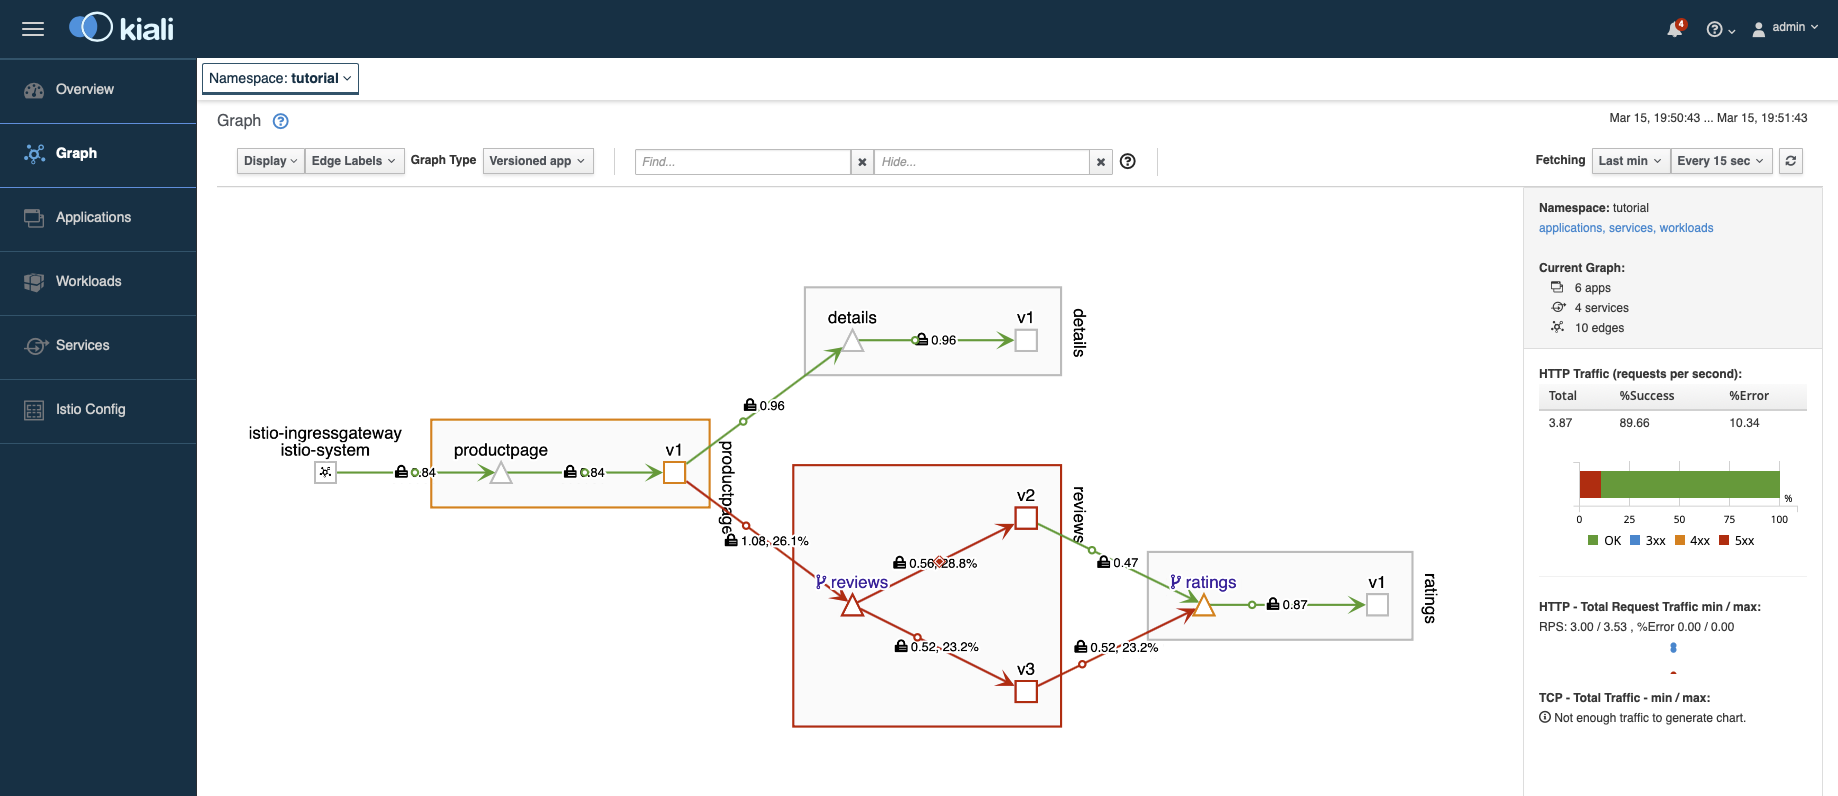
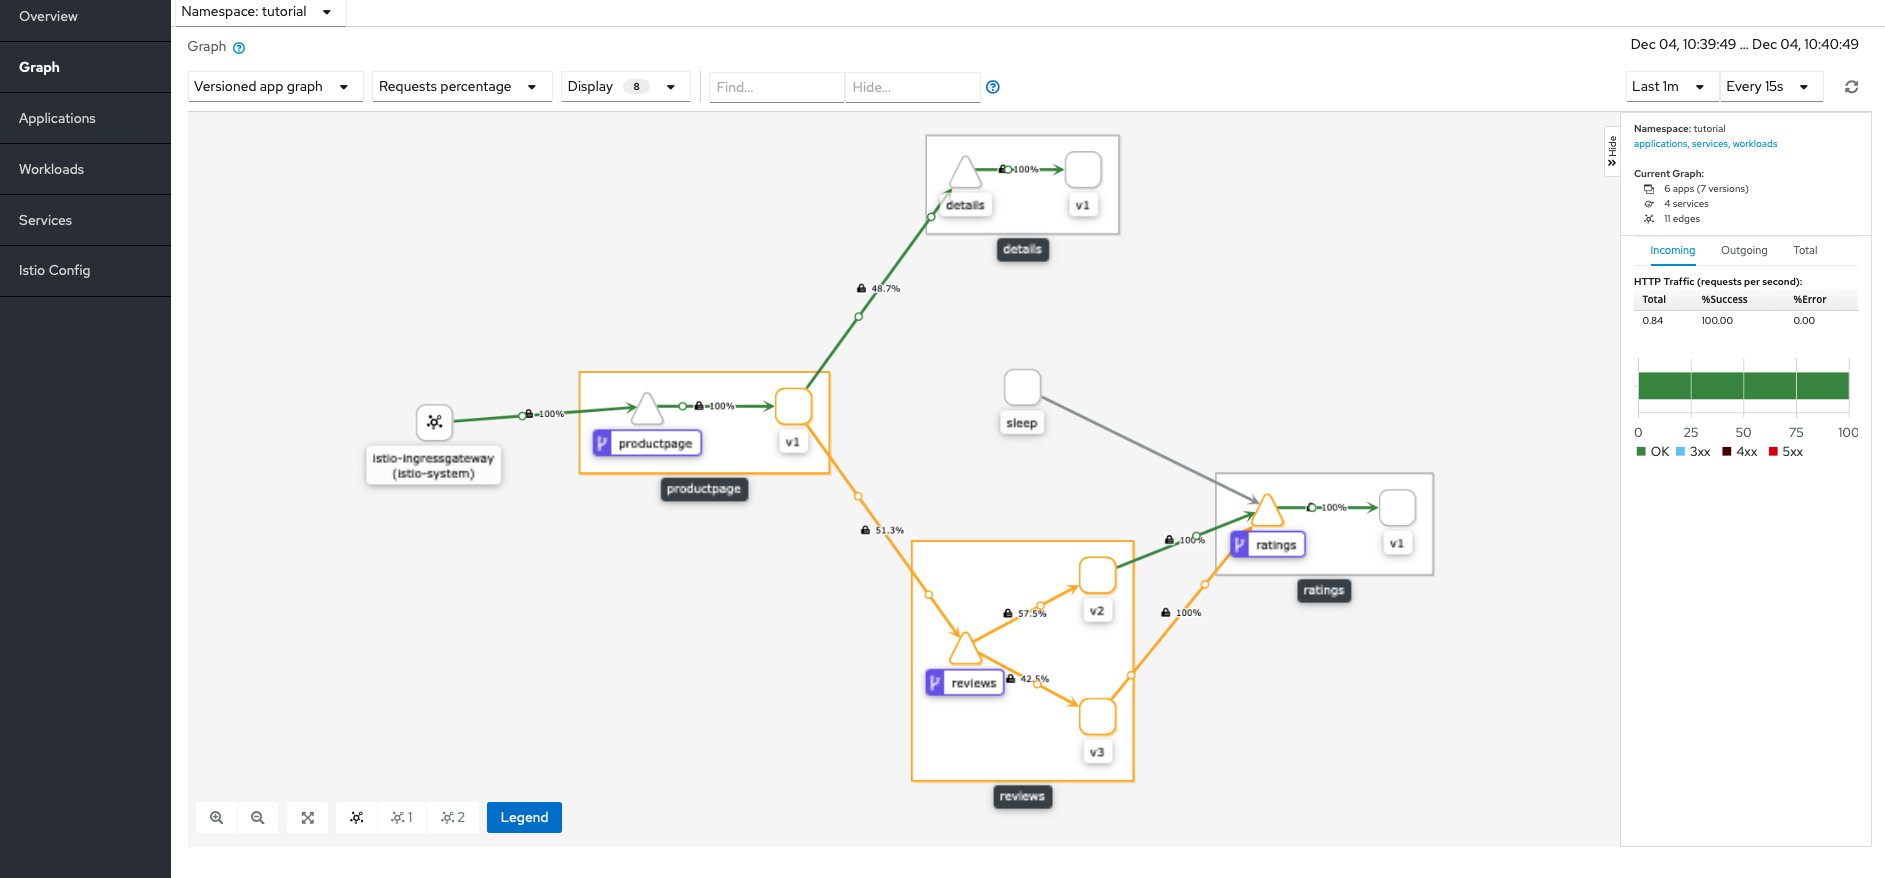
rewrite the fault injection
1. replace Kiali images
2. rewrite the description of Kiali images (the services turned orange and not red, no errors appear on the right tab
3. remove Jaeger since only two spans are shown
4. add final access to the application's webpage to show that the errors disappear, though there is slight delay (injected)

diff --git a/content/en/docs/tutorial/fault-injection-with-istio/index.md b/content/en/docs/tutorial/fault-injection-with-istio/index.md
@@ -51,9 +51,7 @@ microservices react to the faults you injected.
 1.  Check your Kiali console,
     [http://my-kiali.io/kiali/console](http://my-kiali.io/kiali/console), the graph of your namespace.
 
-    Note that the `reviews` microservice became orange and the edges to `ratings` became orange as well. Note the
-    red portion of the stacked bar chart on the right, it designates the proportion of `5xx` errors. Notice the
-    percentage of errors in the `HTTP Traffic` section on the right.
+    Note that the `reviews` microservice became orange and the edges to `ratings` became red.
 
     {{< image width="80%"
         link="kiali-fault-injection.png"
@@ -106,8 +104,8 @@ microservices react to the faults you injected.
 1.  Check your Kiali console,
         [http://my-kiali.io/kiali/console](http://my-kiali.io/kiali/console), the graph of your namespace.
 
-    This time the situation is more serious. The `reviews` microservice turned red, the `productpage` microservice
-    turned orange, and the percentage of the errors in the _HTTP Traffic_ section on the right increased.
+    This time the situation is more serious. Both the `reviews` and the `productpage` microservices
+    turned orange.
 
     {{< image width="80%"
         link="kiali-delay-injection.png"
@@ -123,16 +121,6 @@ microservices react to the faults you injected.
         link="dashboard-reviews-500.png"
         caption="Istio Service Dashboard"
         >}}
-
-1.  Access Jaeger UI at [http://my-istio-tracing.io](http://my-istio-tracing.io), your `productpage` service, find the
-    trace with errors:
-
-    {{< image width="80%"
-        link="jaeger-tracing-timeout-errors.png"
-        caption="Jaeger UI, timeout errors"
-        >}}
-
-    Note that the call to `productpage` took 5.08 s, and that it took 2.5 s for `reviews` to return a response.
 
 1.   Examine [`reviews`'s code]({{< github_blob >}}/samples/bookinfo/src/reviews/reviews-application/src/main/java/application/rest/LibertyRestEndpoint.java) that calls `ratings`:
 
@@ -168,16 +156,8 @@ microservices react to the faults you injected.
     $ curl -s {{< github_file >}}/samples/bookinfo/networking/virtual-service-ratings-test-delay.yaml | sed 's/7s/2s/g' | kubectl apply -f -
     {{< /text >}}
 
-1.  Access Jaeger UI at [http://my-istio-tracing.io](http://my-istio-tracing.io), your `productpage` service, check the
-    latest trace:
-
-    {{< image width="80%"
-        link="jaeger-trace-delay-2.png"
-        caption="Jaeger UI, two seconds delay"
-        >}}
-
-    You can see that now there were no errors and the whole call chain took 2.3 s. It took 2 s for `reviews` to return
-    a response, as you set by fault injection in the previous step.
+1.  Access the application's webpage signed in as `jason`. You can see that while there is some delay, there are no
+    errors anymore.
 
 1.  Clean the fault injection:
 
